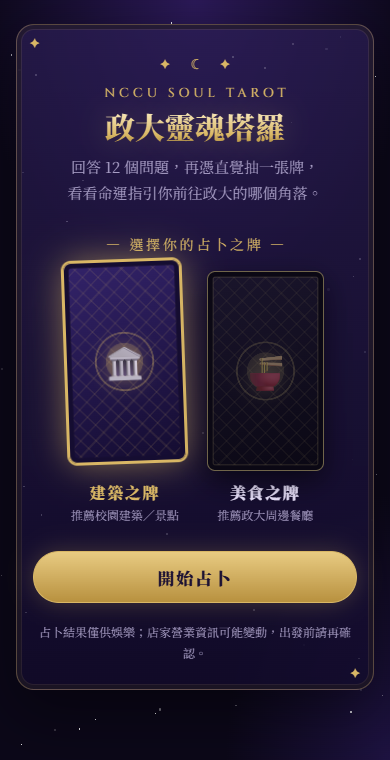
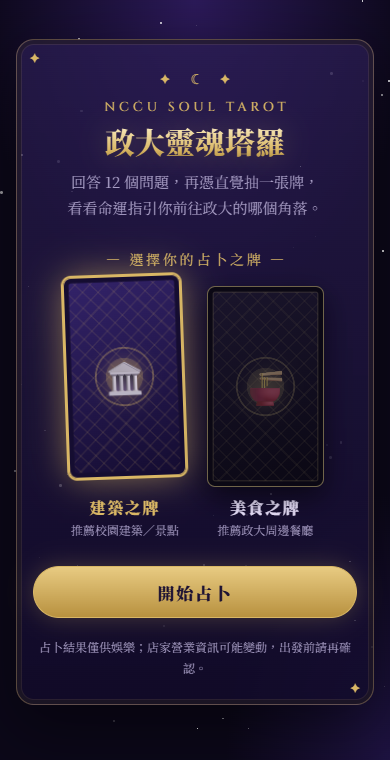
Center each screen vertically

diff --git a/index.html b/index.html
@@ -52,8 +52,14 @@
   }
   @keyframes twinkle { 0%, 100% { opacity: .15; } 50% { opacity: .9; } }
 
-  .app { position: relative; z-index: 1; width: 100%; max-width: 980px; margin: 0 auto; }
-  .stage { animation: appear .6s ease both; max-width: 640px; margin: 0 auto; }
+  /* 用 flex + margin:auto 讓每個畫面上下置中；內容比螢幕高時（如結果頁）會自然從頂端開始，不會被裁切 */
+  .app {
+    position: relative; z-index: 1; width: 100%; max-width: 980px; margin: 0 auto;
+    display: flex; flex-direction: column;
+    min-height: calc(100vh - 64px);
+    min-height: calc(100dvh - max(24px, env(safe-area-inset-top)) - max(40px, env(safe-area-inset-bottom)));
+  }
+  .stage { animation: appear .6s ease both; width: 100%; max-width: 640px; margin: auto; }
   .stage.wide { max-width: 960px; }
   @keyframes appear { from { opacity: 0; transform: translateY(14px); } to { opacity: 1; transform: none; } }
   .hidden { display: none !important; }
